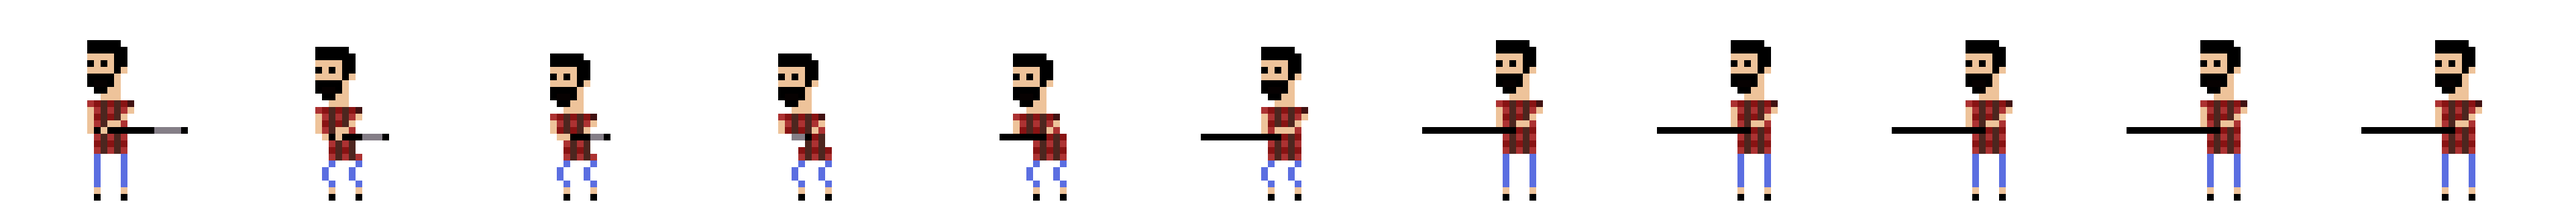
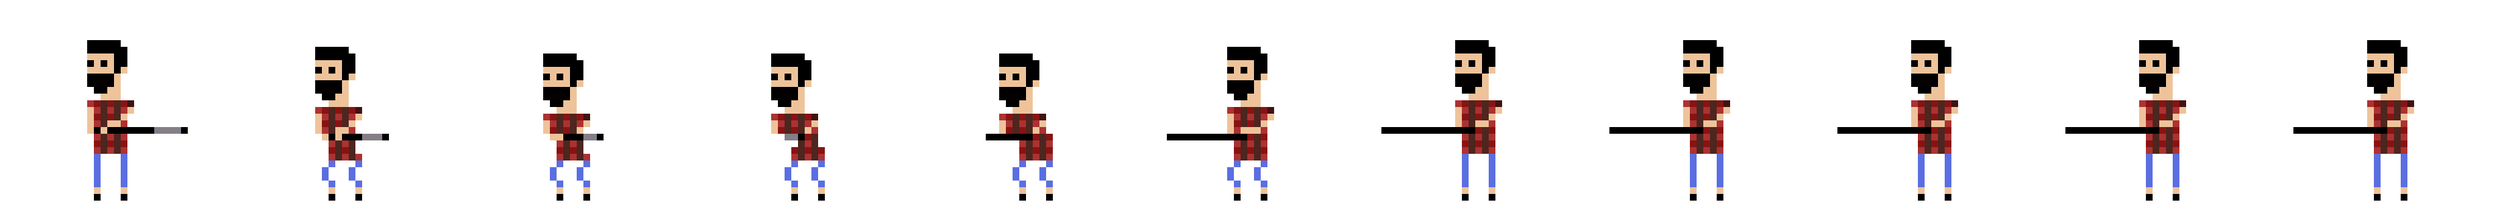
man + testing tools

diff --git a/main.js b/main.js
@@ -18,6 +18,8 @@ var key2 = new Audio('sound/key2.mp3')
 var key3 = new Audio('sound/key3.mp3')
 var i = 1
 //images
+var lumberjack_img = new Image()
+lumberjack_img.src = "images/lumberjack.png"
 var background = new Image()
 background.src = "images/background.png"
 var trunk1 = new Image()
@@ -31,7 +33,27 @@ trunk4.src = "images/trunk4.png"
 var trunk5 = new Image()
 trunk5.src = "images/trunk5.png"
 var tree = [];
+var lumberjack = {
+	sprite: lumberjack_img,
+	frame: 0,
+	direction: 0.75,
+	width: 340,
+	height: 320,
+	animate: false,
+	draw: function(){
+	  context.drawImage(lumberjack.sprite,lumberjack.width*Math.floor(lumberjack.frame),0,lumberjack.width,lumberjack.height,450,350,lumberjack.width,lumberjack.height);
+	  if (lumberjack.animate || lumberjack.frame > 0){
+	    lumberjack.frame += lumberjack.direction;
+		if (lumberjack.frame >= 10 || lumberjack.frame <= 0){
+		  lumberjack.direction *= -1;
+		  lumberjack.animate = false;
+		}
+	  }
+	}
+};
 var treemod = 0;
+//dev
+dev_tools_enabled = false;
 
 document.addEventListener('DOMContentLoaded', init, false);
 
@@ -59,6 +81,9 @@ function main(){
         else {
             game_state = 2
         }
+		if (dev_tools_enabled){
+		  dev_tools();
+		}
     }
     draw()
 }

diff --git a/dev_tools.js b/dev_tools.js
@@ -1,0 +1,51 @@
+/*
+Press ` to activate dev tools
+
+Controls:
+-- 1 : timer is deactivates
+-- 2 : auto completes words
+-- 3 : finishes current word
+-- 4 : adds 100 points
+*/
+
+
+
+var no_timer = false;
+var autocomplete_words = false;
+var finish_word = false;
+var add_points = false;
+
+function dev_tools(){
+  if (no_timer){
+    timer = 1000;
+  }
+  if (autocomplete_words){
+    current_letter += 1;
+    typed_word += current_word.substring(current_letter-1,current_letter);;
+  }
+  if (finish_word){
+    current_letter = current_word.length;
+	finish_word = false;
+  }
+  if (add_points) {
+    points += 100;
+	add_points = false;
+  }
+}
+
+function dev_tools_control(key){
+  switch(key){
+    case 49:
+	  no_timer = !no_timer;
+	  break
+	case 50:
+	  autocomplete_words = !autocomplete_words;
+	  break
+	case 51:
+	  finish_word = !finish_word;
+	  break
+	case 52:
+	  add_points = !add_points;
+	  break
+  }
+}

diff --git a/controls.js b/controls.js
@@ -1,9 +1,13 @@
 function controls(event){
     //Handles typing of letters and plays random key noises
     keycode = event.keyCode;
+	if (keycode == 223){
+	  dev_tools_enabled = !dev_tools_enabled;
+	}
     if (game_state === 1){
         letter = String.fromCharCode(keycode).toLowerCase();
         if (letter == current_word.substring(current_letter,current_letter+1)){
+		    lumberjack.animate = true;
             current_letter += 1;
             typed_word += letter;
             combo += 1;
@@ -34,6 +38,9 @@ function controls(event){
             timer -= 10;
             combo = 10;
         }
+		if (dev_tools_enabled){
+		  dev_tools_control(keycode);
+		}
     }
     else if (game_state === 0){
         //main menu

diff --git a/index.html b/index.html
@@ -5,6 +5,7 @@
         <link rel="stylesheet" href="main.css">
         <script type = "text/javascript" src="settings.js"></script>
         <script type = "text/javascript" src="wordlists.js"></script>
+		<script type = "text/javascript" src="dev_tools.js"></script>
         <script type = "text/javascript" src="controls.js"></script>
         <script type = "text/javascript" src="draw.js"></script>
         <script type = "text/javascript" src="main.js"></script>

diff --git a/draw.js b/draw.js
@@ -5,6 +5,7 @@ function draw(){
         //draw game being played
         context.drawImage(background,0,0)
         drawTree(tree);
+		lumberjack.draw()
         drawWords();
         drawPoints();
     }
